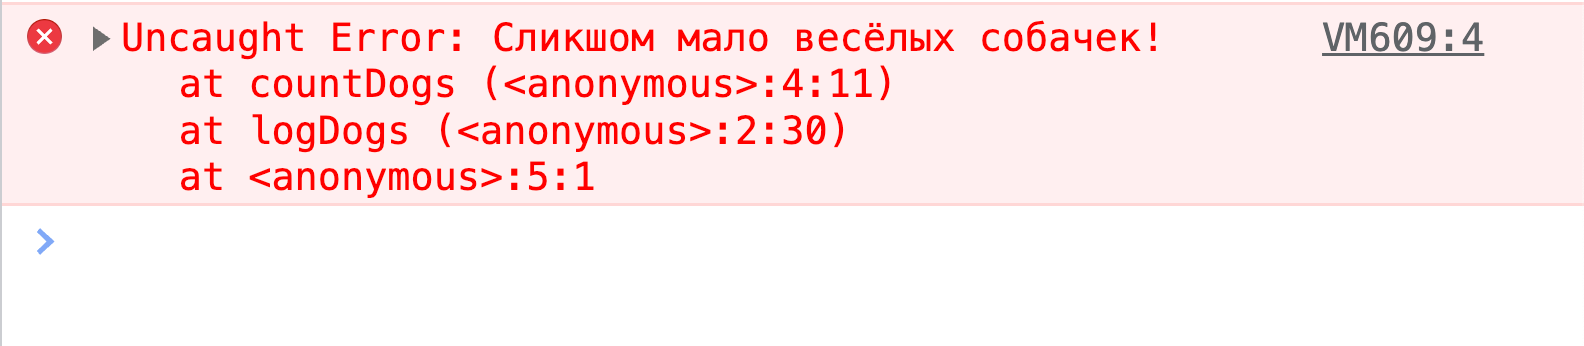
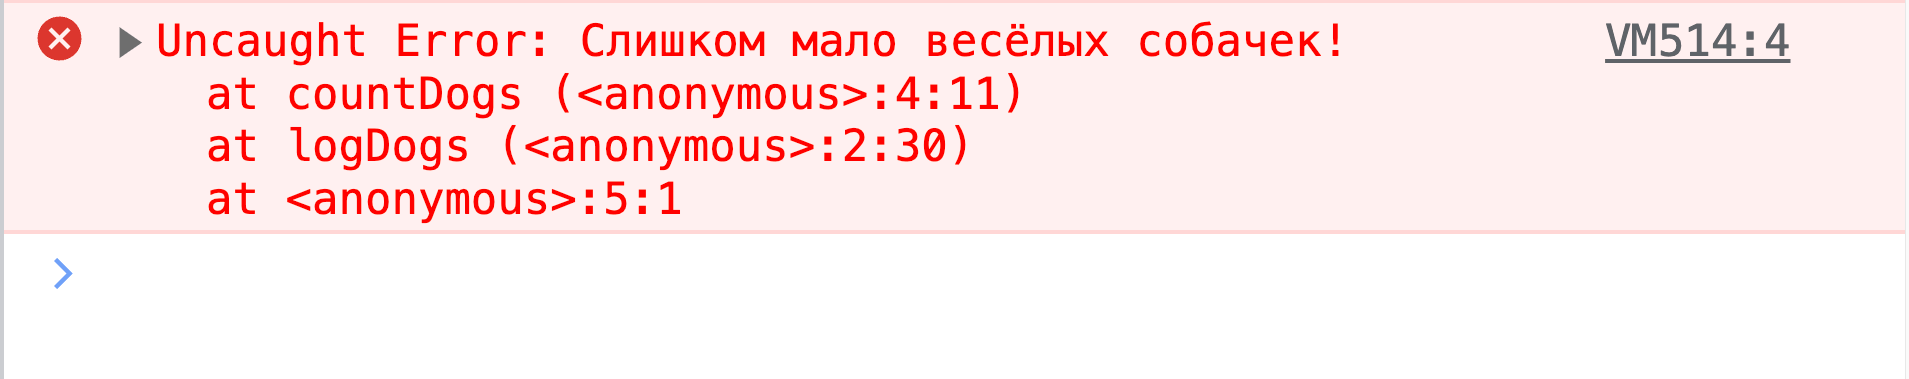
Исправляет опечатку в статье про память (#4681)
* Исправляет опечатку

* Заменяет скриншот с опечаткой

diff --git a/tools/trivial-memory-model/index.md b/tools/trivial-memory-model/index.md
@@ -124,7 +124,7 @@ logDogs();
 
 Если в процессе выполнения функции код выбросит ошибку, то произойдёт _разматывание стека (stack unwinding)_. Вы увидите в консоли знакомый _stack trace_.
 
-![Консоль браузера с текстом ошибки. Текст состоит из 4 строк. На первой строке текст ошибки: "Сликшом мало весёлых собачек!". На следующих строчках названия функций из стека. Сначала вызывается функция подсчёта собачек, за ней функция логирования.](images/stack-trace.png)
+![Консоль браузера с текстом ошибки. Текст состоит из 4 строк. На первой строке текст ошибки: "Слишком мало весёлых собачек!". На следующих строчках названия функций из стека. Сначала вызывается функция подсчёта собачек, за ней функция логирования.](images/stack-trace.png)
 
 Давайте модифицируем функцию `countDogs()` и заставим её выкинуть ошибку.
 
@@ -132,7 +132,7 @@ logDogs();
 function countDogs(happyDogs) {
   const sadCoefficient = 0.1;
   if (happyDogs < 10) {
-    throw new Error('Сликшом мало весёлых собачек!');
+    throw new Error('Слишком мало весёлых собачек!');
   }
   return happyDogs + sadCoefficient * happyDogs;
 }
@@ -141,7 +141,7 @@ function countDogs(happyDogs) {
 Получим следующий результат, когда запустим код из этого примера в консоли браузера:
 
 ```
-Uncaught Error: Сликшом мало весёлых собачек!
+Uncaught Error: Слишком мало весёлых собачек!
     at countDogs (<anonymous>:4:11) <-- вот фрейм count dogs
     at logDogs (<anonymous>:2:30) <-- вот фрейм logDogs
     at <anonymous>:1:1
